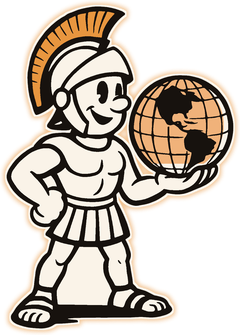
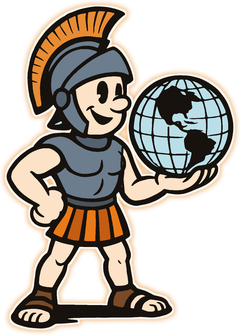
Sparty film plays on a visitor's first Ask Sparty click; still Sparty repainted in the film's colors
Claude-Session: https://claude.ai/code/session_01VRXgFgcYczeVTBjN6j8txL

Changed region(s): [[0.0292, 0.1194, 0.9625, 0.9851], [0.4083, 0.8955, 0.4375, 0.9254]]

diff --git a/docs/assets/js/sparty.js b/docs/assets/js/sparty.js
@@ -16,24 +16,19 @@
   ];
   var history = [];
   var busy = false;
-  var pauseFilm = function () {}; // set by the home page film below
-
   /* ---------- Sparty's welcome film: the house rules ----------
-     The film should land once, then stay out of the way.
-     1. Sound never starts by itself. Only a tap turns sound on.
-     2. It plays on its own at most once per visitor every 30 days,
-        muted with captions, and only when the Ask Sparty section is
-        mostly on screen. Every other time it waits for a tap.
-     3. Home page only. Never on other pages, never as a popup, never
-        inside the floating Ask Sparty button.
-     4. It never loops. When it ends it goes back to the still picture.
-     5. It pauses the moment it scrolls out of view, the tab is hidden,
-        or the Ask Sparty chat opens. It does not resume on its own.
-     6. No autoplay for visitors who ask for reduced motion or who are
-        saving data on a slow connection.
-     7. The video file is not downloaded until the section is close,
-        so it never slows down the top of the page.
-     8. A Skip button is always visible while it plays. */
+     The film plays once, on a visitor's first click of anything Ask
+     Sparty (the corner button, a question button, or the Ask button).
+     After that, every click goes straight to the chat with the still,
+     gently animated Sparty.
+     1. It only starts from a click, so sound is allowed and expected.
+     2. Once per visitor. A visitor who has seen it, or skipped it,
+        never gets it again on this device for a year.
+     3. A Skip button and Escape always end it right away.
+     4. Captions show the whole time.
+     5. Visitors who ask for reduced motion or who save data skip it.
+     6. If the film can't start within a few seconds, the chat opens.
+     7. The file is not downloaded until that first click. */
   var FILM = {
     src: IMG.replace(/img\/$/, "video/") + "sparty-intro.mp4",
     captions: [
@@ -44,9 +39,9 @@
     ],
     poster: IMG + "sparty-intro-poster.jpg",
     seenKey: "cbc-sparty-film-seen",
-    quietDays: 30,
-    inView: 0.6
+    quietDays: 365
   };
+  var filmSeenThisPage = false;
 
   function el(tag, cls, text) {
     var n = document.createElement(tag);
@@ -157,15 +152,21 @@
   document.body.appendChild(panel);
 
   var greeted = false;
+  var GREETING = "Hey, I'm Sparty! Ask me anything about Catalyst Bible College: cost, degrees, housing, campuses, or how to apply.";
   var lastFocus = null;
   function openPanel() {
-    pauseFilm();
+    if (panel.classList.contains("is-open")) return;
+    if (filmIsShowing()) return;
     lastFocus = document.activeElement;
+    if (shouldShowFilm()) { showFilm(revealPanel); return; }
+    revealPanel();
+  }
+  function revealPanel() {
     panel.classList.add("is-open");
     launch.setAttribute("aria-expanded", "true");
     if (!greeted) {
       greeted = true;
-      addMsg("sparty", "Hey, I'm Sparty! Ask me anything about Catalyst Bible College: cost, degrees, housing, campuses, or how to apply.");
+      addMsg("sparty", GREETING);
     }
     setTimeout(function () { input.focus(); }, 50);
   }
@@ -208,6 +209,7 @@
     q = String(q || "").trim();
     if (!q || busy) return;
     if (!panel.classList.contains("is-open")) openPanel();
+    if (!greeted) { greeted = true; addMsg("sparty", GREETING); }
     chips.hidden = true;
     addMsg("you", q);
     input.value = "";
@@ -251,138 +253,109 @@
   }
   form.addEventListener("submit", function (e) { e.preventDefault(); ask(input.value); });
 
-  /* ---------- the welcome film ---------- */
-  function seenRecently() {
+  /* ---------- the welcome film (first click only) ---------- */
+  function seenFilm() {
+    if (filmSeenThisPage) return true;
     try {
       var t = Number(localStorage.getItem(FILM.seenKey) || 0);
-      return t && (Date.now() - t) < FILM.quietDays * 864e5;
+      return !!t && (Date.now() - t) < FILM.quietDays * 864e5;
     } catch (e) { return false; }
   }
   function markSeen() {
+    filmSeenThisPage = true;
     try { localStorage.setItem(FILM.seenKey, String(Date.now())); } catch (e) {}
   }
-  function mayAutoplay() {
-    if (seenRecently()) return false;
+  function shouldShowFilm() {
+    if (seenFilm()) return false;
     if (window.matchMedia && matchMedia("(prefers-reduced-motion: reduce)").matches) return false;
     var c = navigator.connection;
     if (c && (c.saveData || /(^|-)2g$/.test(c.effectiveType || ""))) return false;
-    return true;
+    var t = document.createElement("video");
+    return !!(t.canPlayType && t.canPlayType("video/mp4"));
   }
 
-  function buildFilm(slot, feature) {
-    feature.classList.add("has-film");
+  var filmBox = null;
+  function filmIsShowing() { return !!(filmBox && filmBox.classList.contains("is-open")); }
+
+  function showFilm(done) {
+    markSeen();
+    var wrap = el("div", "sparty-film-overlay");
+    wrap.setAttribute("role", "dialog");
+    wrap.setAttribute("aria-modal", "true");
+    wrap.setAttribute("aria-label", "Meet Sparty, a 15 second welcome");
     var box = el("div", "sparty-film");
-    var poster = document.createElement("img");
-    poster.className = "sparty-film-poster";
-    poster.src = FILM.poster;
-    poster.alt = "Sparty, the Catalyst mascot, holding a glowing globe";
     var video = document.createElement("video");
-    video.muted = true;
     video.playsInline = true;
     video.setAttribute("playsinline", "");
-    video.preload = "none";
+    video.preload = "auto";
     video.poster = FILM.poster;
-    video.setAttribute("aria-label", "Sparty's 15 second welcome");
     var cc = null;
     try {
       cc = video.addTextTrack("captions", "English", "en");
       FILM.captions.forEach(function (c) { cc.addCue(new VTTCue(c[0], c[1], c[2])); });
-      cc.mode = "hidden";
+      cc.mode = "showing";
     } catch (e) { cc = null; }
-
-    var playBtn = el("button", "sparty-film-play");
-    playBtn.type = "button";
-    playBtn.innerHTML = '<span><svg viewBox="0 0 16 16" aria-hidden="true"><path d="M3 1.5v13l11-6.5z"/></svg><b>Watch Sparty</b></span><small>15 sec · sound on</small>';
-    var soundBtn = el("button", "sparty-film-chip sparty-film-sound", "Tap for sound");
-    soundBtn.type = "button";
     var skipBtn = el("button", "sparty-film-chip sparty-film-skip", "Skip");
     skipBtn.type = "button";
-    skipBtn.setAttribute("aria-label", "Skip Sparty's welcome");
-
-    box.appendChild(poster);
+    skipBtn.setAttribute("aria-label", "Skip Sparty's welcome and open the chat");
+    var muteBtn = el("button", "sparty-film-chip sparty-film-sound", "Sound off");
+    muteBtn.type = "button";
     box.appendChild(video);
-    box.appendChild(playBtn);
-    box.appendChild(soundBtn);
+    box.appendChild(muteBtn);
     box.appendChild(skipBtn);
-    slot.appendChild(box);
+    wrap.appendChild(box);
+    document.body.appendChild(wrap);
+    filmBox = wrap;
 
-    var loaded = false;
-    function load() { if (!loaded) { loaded = true; video.src = FILM.src; } }
-    function setCaptions(on) {
-      if (cc) cc.mode = on ? "showing" : "hidden";
+    var finished = false;
+    function finish() {
+      if (finished) return;
+      finished = true;
+      clearTimeout(stall);
+      document.removeEventListener("keydown", onKey, true);
+      try { video.pause(); } catch (e) {}
+      video.removeAttribute("src");
+      try { video.load(); } catch (e) {}
+      wrap.classList.remove("is-open");
+      wrap.remove();
+      filmBox = null;
+      done();
     }
-    function setState(s) { box.setAttribute("data-state", s); }
-    setState("idle");
+    function onKey(e) { if (e.key === "Escape") { e.stopPropagation(); finish(); } }
+    document.addEventListener("keydown", onKey, true);
+    skipBtn.addEventListener("click", finish);
+    muteBtn.addEventListener("click", function () {
+      video.muted = !video.muted;
+      muteBtn.textContent = video.muted ? "Sound on" : "Sound off";
+    });
+    wrap.addEventListener("click", function (e) { if (e.target === wrap) finish(); });
+    video.addEventListener("ended", finish);
+    video.addEventListener("error", finish);
+    document.addEventListener("visibilitychange", function () { if (document.hidden) finish(); });
 
-    function rest() {
-      video.pause();
-      setState("idle");
-      playBtn.querySelector("b").textContent = "Watch again";
-    }
-    function playWithSound() {
-      load();
-      markSeen();
-      var fromPreview = video.muted;
-      video.muted = false;
-      video.volume = 0.85;
-      setCaptions(false);
-      if (video.ended || fromPreview) video.currentTime = 0;
-      setState("playing");
-      var p = video.play();
-      if (p && p.catch) p.catch(function () { setState("idle"); });
-    }
-    function playMuted() {
-      load();
-      markSeen();
+    // If it hasn't started within six seconds, go straight to the chat.
+    var stall = setTimeout(function () { if (video.paused || video.currentTime < 0.1) finish(); }, 6000);
+    video.addEventListener("playing", function () { clearTimeout(stall); });
+
+    wrap.classList.add("is-open");
+    video.src = FILM.src;
+    video.volume = 0.85;
+    var p = video.play();
+    if (p && p.catch) p.catch(function () {
+      // Some browsers refuse sound; try once more without it.
       video.muted = true;
-      setCaptions(true);
-      setState("muted");
-      var p = video.play();
-      if (p && p.catch) p.catch(function () { setState("idle"); });
-    }
-    pauseFilm = function () {
-      if (!video.paused) { video.pause(); setState("idle"); playBtn.querySelector("b").textContent = "Keep watching"; }
-    };
-
-    playBtn.addEventListener("click", playWithSound);
-    soundBtn.addEventListener("click", playWithSound);
-    skipBtn.addEventListener("click", function () { markSeen(); rest(); playBtn.querySelector("b").textContent = "Watch Sparty"; });
-    video.addEventListener("ended", rest);
-    document.addEventListener("visibilitychange", function () { if (document.hidden) pauseFilm(); });
-
-    if ("IntersectionObserver" in window) {
-      // Start fetching a little before the section arrives.
-      new IntersectionObserver(function (es, obs) {
-        if (es[0].isIntersecting) { obs.disconnect(); video.preload = "metadata"; }
-      }, { rootMargin: "300px 0px" }).observe(box);
-
-      var autoplayUsed = !mayAutoplay();
-      new IntersectionObserver(function (es) {
-        var e = es[0];
-        if (e.intersectionRatio >= FILM.inView) {
-          if (!autoplayUsed && !panel.classList.contains("is-open") && !document.hidden) {
-            autoplayUsed = true;
-            playMuted();
-          }
-        } else if (!video.paused) {
-          pauseFilm();
-        }
-      }, { threshold: [0, FILM.inView] }).observe(box);
-    }
+      muteBtn.textContent = "Sound on";
+      var q = video.play();
+      if (q && q.catch) q.catch(finish);
+    });
+    skipBtn.focus();
   }
 
   /* ---------- home page feature ---------- */
   var feature = document.getElementById("ask-sparty");
   if (feature) {
     var slot = feature.querySelector("[data-sparty-figure]");
-    if (slot) {
-      var vtest = document.createElement("video");
-      if (vtest.canPlayType && vtest.canPlayType("video/mp4")) {
-        buildFilm(slot, feature);
-      } else {
-        slot.appendChild(figure(480));
-      }
-    }
+    if (slot) slot.appendChild(figure(480));
     var fChips = feature.querySelector(".sparty-chips");
     if (fChips) makeChips(fChips, function (q) { ask(q); });
     if ("IntersectionObserver" in window) {

diff --git a/docs/assets/css/sparty.css b/docs/assets/css/sparty.css
@@ -102,39 +102,25 @@
   .sparty-fig img, .sparty-fig .glow, .sparty-fig .orbit, .sparty-fig .shadow, .sparty-launch, .sparty-panel.is-open { animation: none !important; }
 }
 
-/* ---------- Sparty's welcome film (home page only) ---------- */
-.ask-sparty.has-film .section-inner { grid-template-columns: minmax(0, 1.15fr) minmax(0, 1fr); }
-.sparty-film { position: relative; aspect-ratio: 16 / 9; max-width: 100%; border-radius: 18px; overflow: hidden;
-  background: var(--ink); border: 1px solid rgba(232,150,63,.45);
-  box-shadow: 0 30px 70px rgba(0,0,0,.5), 0 0 0 6px rgba(232,150,63,.06); }
-.sparty-film-poster, .sparty-film video { position: absolute; inset: 0; width: 100%; height: 100%; object-fit: cover; display: block; }
-.sparty-film video { opacity: 0; transition: opacity .35s var(--ease); }
-.sparty-film[data-state="playing"] video, .sparty-film[data-state="muted"] video { opacity: 1; }
+/* ---------- Sparty's welcome film (first click only) ---------- */
+.sparty-film-overlay { position: fixed; inset: 0; z-index: 120; display: none; place-items: center; padding: 16px;
+  background: rgba(10,8,6,.82); backdrop-filter: blur(4px); -webkit-backdrop-filter: blur(4px); }
+.sparty-film-overlay.is-open { display: grid; animation: spartyFade .3s var(--ease) both; }
+@keyframes spartyFade { from { opacity: 0; } to { opacity: 1; } }
+.sparty-film { position: relative; width: min(960px, 100%); aspect-ratio: 16 / 9; border-radius: 18px; overflow: hidden;
+  background: var(--ink); border: 1px solid rgba(232,150,63,.5);
+  box-shadow: 0 40px 100px rgba(0,0,0,.6), 0 0 80px rgba(232,150,63,.18);
+  animation: spartyPop .45s var(--ease) both; }
+.sparty-film video { position: absolute; inset: 0; width: 100%; height: 100%; object-fit: cover; display: block; }
 .sparty-film video::cue { font-family: var(--font-display); font-weight: 700; font-size: 1.05rem; color: #fff; background: rgba(23,18,14,.78); }
-
-.sparty-film-play { position: absolute; inset: 0; display: grid; place-content: center; justify-items: center; gap: 6px;
-  border: 0; cursor: pointer; color: var(--ink); background: linear-gradient(180deg, rgba(23,18,14,0) 35%, rgba(23,18,14,.6)); }
-.sparty-film-play svg { width: 18px; height: 18px; fill: currentColor; }
-.sparty-film-play span { display: inline-flex; align-items: center; gap: 10px; padding: 14px 22px; border-radius: 999px;
-  font: 800 16px var(--font-display); letter-spacing: .06em; text-transform: uppercase;
-  background: linear-gradient(135deg, var(--glow), var(--ember) 60%, var(--lava)); box-shadow: 0 10px 30px rgba(232,150,63,.45);
-  transition: transform .25s var(--ease); }
-.sparty-film-play b { font-weight: inherit; }
-.sparty-film-play small { font-family: var(--font-mono); font-size: 11px; letter-spacing: .14em; text-transform: uppercase; color: var(--parchment); }
-.sparty-film-play:hover span, .sparty-film-play:focus-visible span { transform: translateY(-3px); }
-.sparty-film-play:focus-visible { outline: 3px solid var(--glow); outline-offset: -6px; }
-
-.sparty-film-chip { position: absolute; top: 12px; display: none; font: 500 12px var(--font-mono); letter-spacing: .1em; text-transform: uppercase;
-  padding: 8px 12px; border-radius: 999px; border: 1px solid rgba(245,238,227,.35); background: rgba(23,18,14,.72); color: var(--parchment); cursor: pointer; }
-.sparty-film-chip:hover, .sparty-film-chip:focus-visible { background: rgba(23,18,14,.92); border-color: var(--glow); }
+.sparty-film-chip { position: absolute; top: 12px; font: 500 13px var(--font-mono); letter-spacing: .1em; text-transform: uppercase;
+  padding: 10px 14px; border-radius: 999px; border: 1px solid rgba(245,238,227,.4); background: rgba(23,18,14,.75); color: var(--parchment); cursor: pointer; }
+.sparty-film-chip:hover, .sparty-film-chip:focus-visible { background: rgba(23,18,14,.95); border-color: var(--glow); outline: none; }
 .sparty-film-sound { left: 12px; color: var(--glow); }
 .sparty-film-skip { right: 12px; }
-.sparty-film[data-state="muted"] .sparty-film-sound { display: inline-block; }
-.sparty-film[data-state="muted"] .sparty-film-skip, .sparty-film[data-state="playing"] .sparty-film-skip { display: inline-block; }
-.sparty-film[data-state="muted"] .sparty-film-play, .sparty-film[data-state="playing"] .sparty-film-play { display: none; }
-
-@media (max-width: 760px) {
-  .ask-sparty.has-film .section-inner { grid-template-columns: 1fr; }
-  .ask-sparty .sparty-film { max-width: 560px; margin: 0 auto; width: 100%; }
+@media (prefers-reduced-motion: reduce) { .sparty-film-overlay.is-open, .sparty-film { animation: none; } }
+@media (max-width: 520px) {
+  .sparty-film-chip { top: 8px; font-size: 11px; padding: 7px 10px; }
+  .sparty-film-sound { left: 8px; } .sparty-film-skip { right: 8px; }
+  .sparty-film video::cue { font-size: .72rem; }
 }
-@media (prefers-reduced-motion: reduce) { .sparty-film video, .sparty-film-play span { transition: none; } }
